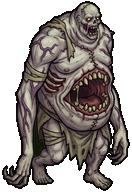
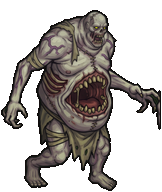
Animasi jalan boss dungeon 1: 4 frame dengan pose berbeda signifikan
Claude-Session: https://claude.ai/code/session_0178Xsend8E9zPBDR2CqzAVs

diff --git a/sw.js b/sw.js
@@ -1,4 +1,4 @@
-const V='ud-v20';
+const V='ud-v21';
 const CORE=["./", "index.html", "manifest.json", "icon-192.png", "hero.jpg", "favicon.ico", "favicon-32.png", "favicon-16.png", "apple-touch-icon.png"], REST=["theme.mp3", "art/01.jpg", "art/02.jpg", "art/03.jpg", "art/04.jpg", "art/05.jpg", "art/06.jpg", "art/07.jpg", "art/08.jpg", "art/09.jpg", "art/10.jpg", "art/11.jpg", "art/12.jpg", "art/13.jpg", "art/14.jpg", "art/15.jpg", "art/16.jpg", "art/17.jpg", "art/18.jpg", "art/19.jpg", "art/20.jpg", "art/21.jpg", "art/22.jpg", "art/23.jpg", "art/24.jpg", "art/25.jpg", "art/26.jpg", "art/27.jpg", "art/28.jpg", "art/29.jpg", "bgs/bg0_hd.jpg", "bgs/bg1_hd.jpg", "bgs/bg2_hd.jpg", "bgs/bg3_hd.jpg", "bgs/bg4_hd.jpg", "bgs/bg5_hd.jpg", "cards/01.jpg", "cards/02.jpg", "cards/03.jpg", "cards/04.jpg", "cards/05.jpg", "cards/06.jpg", "cards/07.jpg", "cards/08.jpg", "cards/09.jpg", "cards/10.jpg", "cards/11.jpg", "cards/12.jpg", "cards/13.jpg", "cards/14.jpg", "cards/15.jpg", "cards/16.jpg", "cards/17.jpg", "cards/18.jpg", "cards/19.jpg", "cards/20.jpg", "cards/21.jpg", "cards/22.jpg", "cards/23.jpg", "cards/24.jpg", "cards/25.jpg", "cards/26.jpg", "cards/27.jpg", "cards/28.jpg", "icon-512.png", "tws/anchors.json", "tws/beam_B1.png", "tws/beam_B2.png", "tws/beam_B3.png", "tws/beam_L1.png", "tws/beam_L2.png", "tws/beam_L3.png", "tws/cannon_B1.png", "tws/cannon_B2.png", "tws/cannon_B3.png", "tws/cannon_L1.png", "tws/cannon_L2.png", "tws/cannon_L3.png", "tws/frost_B1.png", "tws/frost_B2.png", "tws/frost_B3.png", "tws/frost_L1.png", "tws/frost_L2.png", "tws/frost_L3.png", "tws/jade_L1.png", "tws/jade_L2.png", "tws/jade_L3.png", "tws/naga_L1.png", "tws/naga_L2.png", "tws/naga_L3.png", "tws/necro_L1.png", "tws/necro_L2.png", "tws/necro_L3.png", "tws/ra_L1.png", "tws/ra_L2.png", "tws/ra_L3.png", "tws/trooper_B1.png", "tws/trooper_B2.png", "tws/trooper_B3.png", "tws/trooper_L1.png", "tws/trooper_L2.png", "tws/trooper_L3.png", "tws/void_L1.png", "tws/void_L2.png", "tws/void_L3.png", "tws/zeus_L1.png", "tws/zeus_L2.png", "tws/zeus_L3.png", "bs/d0_b1_0.png", "bs/d0_b1_1.png", "bs/d0_b1_2.png", "bs/d0_b1_3.png", "bs/d0_b2_0.png", "bs/d0_b2_1.png", "bs/d0_b2_2.png", "bs/d0_b2_3.png", "bs/d0_b3_0.png", "bs/d0_b3_1.png", "bs/d0_b3_2.png", "bs/d0_b3_3.png", "bs/d0_b4_0.png", "bs/d0_b4_1.png", "bs/d0_b4_2.png", "bs/d0_b4_3.png", "bs/d0_b5_0.png", "bs/d0_b5_1.png", "bs/d0_b5_2.png", "bs/d0_b5_3.png"];
 self.addEventListener('install',e=>{e.waitUntil(caches.open(V).then(c=>Promise.all(CORE.map(u=>c.add(u).catch(()=>0)))).then(()=>self.skipWaiting()));});
 self.addEventListener('activate',e=>{e.waitUntil(caches.keys().then(ks=>Promise.all(ks.filter(k=>k!==V).map(k=>caches.delete(k)))).then(()=>self.clients.claim()));});

diff --git a/index.html b/index.html
@@ -2610,7 +2610,7 @@ function regFrames(di,k){
   try{const r=HD.creepFrames(di,k);r.frames.pad=r.pad;return HUE_FR[key]=r.frames;}catch(err){console.error(err);return HUE_FR[key]=BASE_FR[k].map(c=>hueShift(c,DUNGEONS[di].hue));}
 }
 function autoPort(fr,sz){const c=newCanvas(32,32),g=c.getContext('2d');g.imageSmoothingEnabled=false;const q=Math.round(sz*.62);g.drawImage(fr,Math.round((sz-q)/2),0,q,q,0,0,32,32);return c;}
-const CBP=[[7,.05,.9,1,0],[9,.065,1.1,1,.9],[7,.05,1,1,.7],[6,.045,.7,0,0],[11,.075,1.3,1,1.6]];
+const CBP=[[3,.02,.4,1,0],[4,.025,.5,1,.9],[2,.015,.3,1,.7],[3,.02,.35,0,0],[5,.03,.6,1,1.6]];
 function loadCustomBoss(out){for(let t=0;t<5;t++){const fr=[];let n=0;for(let f=0;f<4;f++){const im=new Image();im.onload=()=>{const c=newCanvas(im.width,im.height);c.getContext('2d').drawImage(im,0,0);fr[f]=c;if(++n===4){const c0=fr[0],q=Math.min(c0.width,Math.round(c0.height*.42)),p=newCanvas(32,32),g=p.getContext('2d');g.imageSmoothingEnabled=true;g.imageSmoothingQuality='high';g.drawImage(c0,Math.round((c0.width-q)/2),Math.round(c0.height*.02),q,q,0,0,32,32);out[t].custom={frames:fr,port:[p,p]};}};im.src='bs/d0_b'+(t+1)+'_'+f+'.png';}}}
 function bossAssets(di){
   if(BOSS_CACHE[di])return BOSS_CACHE[di];const out=[];
